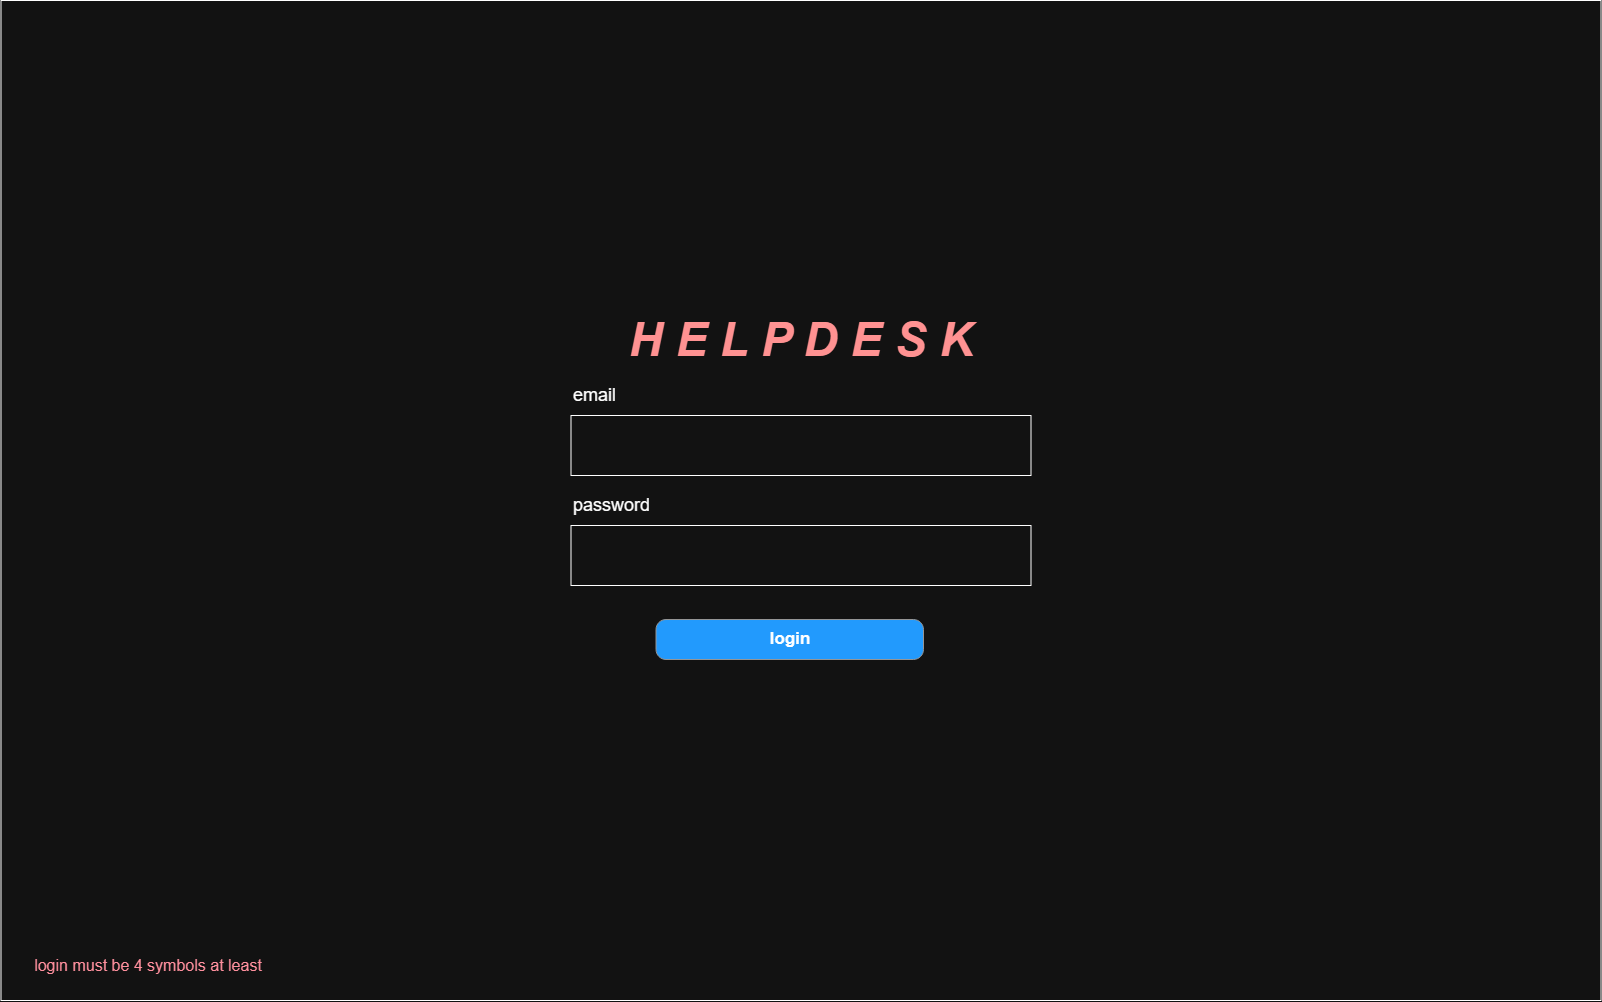
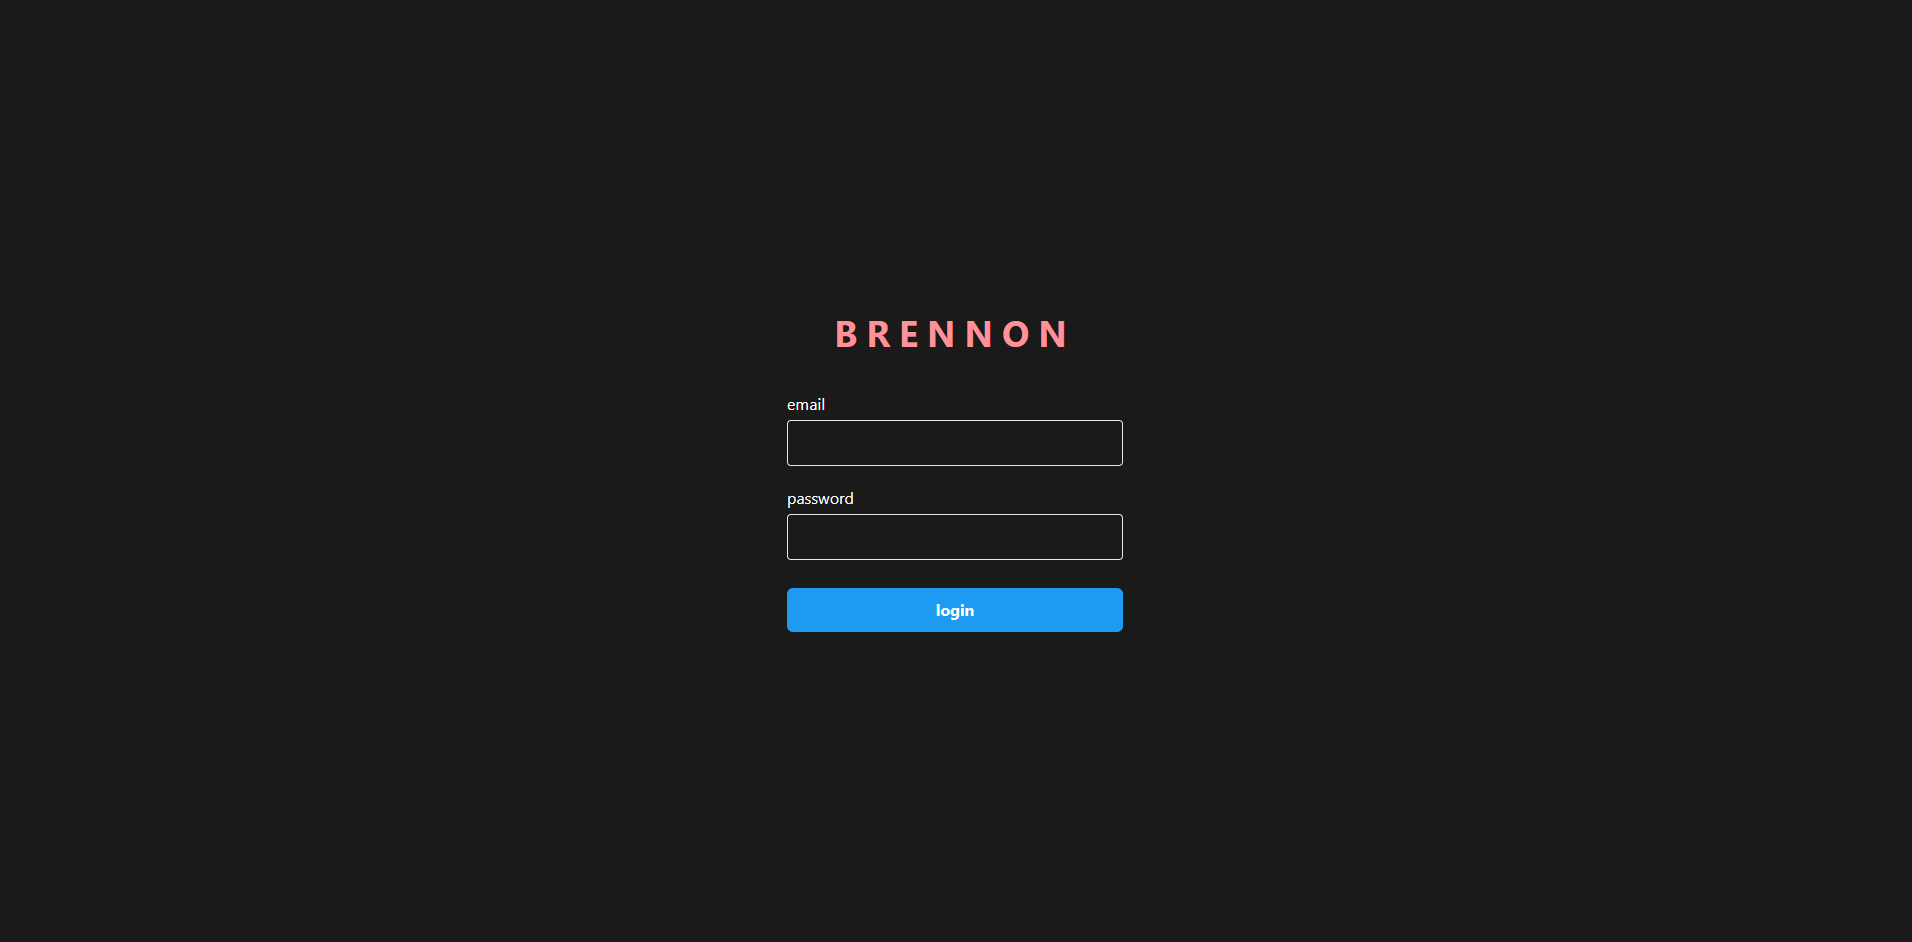
feat: remove cancel button from add reply form

diff --git a/src/main/resources/templates/ticket/ticket-details.html b/src/main/resources/templates/ticket/ticket-details.html
@@ -236,13 +236,6 @@
                                 class="bg-[#3b82f6] hover:bg-[#2563eb] text-white font-medium py-1.5 px-6 rounded shadow-sm transition-colors text-sm">
                             Add message
                         </button>
-                        <!-- NOTE: Thymeleaf does not allow direct dynamic evaluation of 'onclick' -->
-                        <button type="button" 
-                                th:if="${actualMode == 'add'}"
-                                onclick="window.history.back()"
-                                class="bg-[#3b82f6] hover:bg-[#2563eb] text-white font-medium py-1.5 px-6 rounded shadow-sm transition-colors text-sm">
-                            Cancel
-                        </button>
                         <button type="button"
                                 th:if="${actualMode == 'edit'}"
                                 th:hx-get="@{/tickets/{id}(id=${ticket.id})}"

diff --git a/README.md b/README.md
@@ -6,6 +6,8 @@ Helpdesk platform
 
 <img src="docs/ui_ticket_details.png" width="400" alt="ticket_details">
 
+<img src="docs/ui_ticket_details_2.png" width="400" alt="ticket_details_2">
+
 <img src="docs/ui_ticket_list.png" width="400" alt="ticket_list">
 
 ## Project configuration
